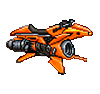
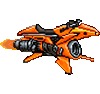
Add effects for OppressorMK2

Changed region(s): [[0.0, 0.1915, 1.0, 0.8085]]

diff --git a/Content/Mounts/OppressorMK2UI.cs b/Content/Mounts/OppressorMK2UI.cs
@@ -25,6 +25,19 @@ namespace LK_Ugrumiy_WP.Content.Mounts
                     },
                     InterfaceScaleType.Game));
             }
+
+            int cursorIndex = layers.FindIndex(layer => layer.Name.Equals("Vanilla: Cursor"));
+            if (cursorIndex != -1)
+            {
+                layers.Insert(cursorIndex, new LegacyGameInterfaceLayer(
+                    "LK_Ugrumiy_WP: Oppressor Dash Screen Effect",
+                    delegate
+                    {
+                        DrawDashScreenEffect(Main.spriteBatch);
+                        return true;
+                    },
+                    InterfaceScaleType.UI));
+            }
         }
 
         private void DrawDashCooldown(SpriteBatch spriteBatch)
@@ -71,6 +84,49 @@ namespace LK_Ugrumiy_WP.Content.Mounts
             if (filledWidth > 0)
             {
                 spriteBatch.Draw(pixel, new Rectangle(x, y, filledWidth, barHeight), filledColor);
+            }
+        }
+
+        private void DrawDashScreenEffect(SpriteBatch spriteBatch)
+        {
+            Player player = Main.LocalPlayer;
+            
+            if (!player.active || player.dead || player.mount.Type != ModContent.MountType<OppressorMK2>())
+                return;
+
+            OppressorMK2Player modPlayer = player.GetModPlayer<OppressorMK2Player>();
+
+            if (modPlayer.customDashTimer > 0)
+            {
+                // Прогресс от 1 до 0 (20 тиков = начальное значение таймера)
+                float progress = modPlayer.customDashTimer / 30f; 
+                
+                // Эффект мерцания на основе времени
+                float flicker = (float)System.Math.Abs(System.Math.Sin(Main.GlobalTimeWrappedHourly * 30f));
+                
+                // Цвет переливается между желтым и оранжевым
+                Color color = Color.Lerp(Color.Yellow, new Color(255, 100, 0), flicker);
+                
+                // Прозрачность затухает по мере окончания таймера (значительно уменьшено)
+                float alpha = progress * 0.12f; 
+                
+                Texture2D pixel = TextureAssets.MagicPixel.Value;
+                
+                // Легкий общий фон экрана
+                Rectangle screenRect = new Rectangle(0, 0, Main.screenWidth, Main.screenHeight);
+                spriteBatch.Draw(pixel, screenRect, color * alpha);
+                
+                // Более яркие края (эффект виньетки скорости) - размер и яркость уменьшены
+                int borderSize = (int)(50 * progress);
+                float borderAlpha = alpha * 1.5f;
+                
+                // Верхняя и нижняя границы
+                spriteBatch.Draw(pixel, new Rectangle(0, 0, Main.screenWidth, borderSize), color * borderAlpha);
+                spriteBatch.Draw(pixel, new Rectangle(0, Main.screenHeight - borderSize, Main.screenWidth, borderSize), color * borderAlpha);
+                
+                // Левая и правая границы
+                spriteBatch.Draw(pixel, new Rectangle(0, 0, borderSize, Main.screenHeight), color * borderAlpha);
+                spriteBatch.Draw(pixel, new Rectangle(Main.screenWidth - borderSize, 0, borderSize, Main.screenHeight), color * borderAlpha);
             }
         }
     }

diff --git a/Content/Items/Consumables/FatBurger/FatVisuals.cs b/Content/Items/Consumables/FatBurger/FatVisuals.cs
@@ -20,6 +20,9 @@ namespace LK_Ugrumiy_WP.Content.Items.Consumables
 			var fp = drawInfo.drawPlayer.GetModPlayer<FatPlayer>();
 			if (fp.FatLevel <= 5f) return;
 
+			// Не расширяем модельку, когда игрок на маунте — иначе растягивается спрайт маунта
+			// if (drawInfo.drawPlayer.mount.Active) return; // Убрано, чтобы игрок оставался толстым на маунте
+
 			float ratio = fp.FatLevel / FatPlayer.MaxFat;
 
 			float sx = 1f + ratio * 0.35f;
@@ -42,6 +45,8 @@ namespace LK_Ugrumiy_WP.Content.Items.Consumables
 
 		public override bool GetDefaultVisibility(PlayerDrawSet drawInfo)
 		{
+			// Скрываем fat-эффекты на маунте, чтобы не масштабировать спрайт маунта
+			// if (drawInfo.drawPlayer.mount.Active) return false; // Убрано, чтобы эффекты рисовались на маунте
 			return drawInfo.drawPlayer.GetModPlayer<FatPlayer>().FatLevel > 5f;
 		}
 
@@ -58,9 +63,53 @@ namespace LK_Ugrumiy_WP.Content.Items.Consumables
 			Vector2 feetCenter = drawInfo.Position - Main.screenPosition
 				+ new Vector2(drawInfo.drawPlayer.width / 2f, drawInfo.drawPlayer.height);
 
+			bool onMount = drawInfo.drawPlayer.mount.Active;
+			ModMount modMount = onMount ? MountLoader.GetMount(drawInfo.drawPlayer.mount.Type) : null;
+
 			for (int i = 0; i < drawInfo.DrawDataCache.Count; i++)
 			{
 				DrawData data = drawInfo.DrawDataCache[i];
+
+				if (onMount)
+				{
+					bool isMountTexture = false;
+					if (modMount != null)
+					{
+						if (data.texture == modMount.MountData.backTexture?.Value ||
+							data.texture == modMount.MountData.backTextureExtra?.Value ||
+							data.texture == modMount.MountData.backTextureGlow?.Value ||
+							data.texture == modMount.MountData.frontTexture?.Value ||
+							data.texture == modMount.MountData.frontTextureExtra?.Value ||
+							data.texture == modMount.MountData.frontTextureGlow?.Value)
+						{
+							isMountTexture = true;
+						}
+					}
+					else
+					{
+						if (data.texture != null && data.texture.Name != null && data.texture.Name.StartsWith("Images/Mount_"))
+						{
+							isMountTexture = true;
+						}
+					}
+
+					if (data.texture != null && data.texture.Name != null && data.texture.Name.Contains("OppressorMK2"))
+					{
+						isMountTexture = true;
+					}
+					
+					Texture2D boostTex = null;
+					try {
+						boostTex = ModContent.Request<Texture2D>("LK_Ugrumiy_WP/Content/Mounts/OppressorMK2Boost_Back").Value;
+					} catch {}
+
+					if (data.texture != null && boostTex != null && data.texture == boostTex)
+					{
+						isMountTexture = true;
+					}
+
+					if (isMountTexture) continue;
+				}
 
 				Vector2 offset = data.position - feetCenter;
 				offset.X *= sX;

diff --git a/Content/Mounts/OppressorMK2.cs b/Content/Mounts/OppressorMK2.cs
@@ -1,6 +1,8 @@
 using System;
+using System.Collections.Generic;
 using Microsoft.Xna.Framework;
 using Terraria;
+using Terraria.DataStructures;
 using Terraria.ID;
 using Terraria.ModLoader;
 using LK_Ugrumiy_WP.Content.Buffs;
@@ -110,21 +112,39 @@ namespace LK_Ugrumiy_WP.Content.Mounts
                 if (dashDirection != 0)
                 {
                     // Выполняем рывок
-                    player.velocity.X = 30f * dashDirection; 
+                    player.velocity.X = 45f * dashDirection; 
                     modPlayer.customDashDelay = 300; // Перезарядка (300 тиков = 5 секунд)
+                    modPlayer.customDashTimer = 30; // Время действия рывка (для анимации/эффектов)
                     
                     // Звуковой эффект
                     Terraria.Audio.SoundEngine.PlaySound(SoundID.Item82, player.Center); 
                     
                     // Визуальный эффект дыма/пыли
-                    for (int i = 0; i < 30; i++)
+                    for (int i = 0; i < 45; i++)
                     {
-                        int d = Dust.NewDust(player.position, player.width, player.height, DustID.Smoke, 0f, 0f, 100, default, 2f);
-                        Main.dust[d].velocity *= 3f;
+                        int d = Dust.NewDust(player.position, player.width, player.height, DustID.Smoke, 0f, 0f, 100, default, 2.5f);
+                        Main.dust[d].velocity *= 4.5f;
                         Main.dust[d].noGravity = true;
                     }
                 }
             }
+        }
+
+        public override bool Draw(List<Terraria.DataStructures.DrawData> playerDrawData, int drawType, Player drawPlayer, ref Microsoft.Xna.Framework.Graphics.Texture2D texture, ref Microsoft.Xna.Framework.Graphics.Texture2D glowTexture, ref Vector2 drawPosition, ref Rectangle frame, ref Color drawColor, ref Color glowColor, ref float rotation, ref Microsoft.Xna.Framework.Graphics.SpriteEffects spriteEffects, ref Vector2 drawOrigin, ref float drawScale, float shadow)
+        {
+            OppressorMK2Player modPlayer = drawPlayer.GetModPlayer<OppressorMK2Player>();
+            
+            // Если игрок в состоянии рывка
+            if (modPlayer.customDashTimer > 0)
+            {
+                // drawType == 0 — это backTexture маунта
+                if (drawType == 0)
+                {
+                    texture = ModContent.Request<Microsoft.Xna.Framework.Graphics.Texture2D>("LK_Ugrumiy_WP/Content/Mounts/OppressorMK2Boost_Back").Value;
+                }
+            }
+
+            return true;
         }
     }
 }

diff --git a/Content/Items/Consumables/FatBurger/FatPlayer.cs b/Content/Items/Consumables/FatBurger/FatPlayer.cs
@@ -102,34 +102,38 @@ namespace LK_Ugrumiy_WP.Content.Items.Consumables
 			// Базовое сжигание: всегда тикает (очень медленно)
 			burnRate += 0.001f; // ~0.06/сек, ~3.6/мин
 
-			// Бег: быстро сжигает
-			if (Math.Abs(Player.velocity.X) > 2f && Player.velocity.Y == 0f)
+			// На маунте жир не сжигается активно — игрок не бегает сам
+			if (!Player.mount.Active)
 			{
-				burnRate += 0.015f; // ~0.48/сек, ~28.8/мин
-			}
+				// Бег: быстро сжигает
+				if (Math.Abs(Player.velocity.X) > 2f && Player.velocity.Y == 0f)
+				{
+					burnRate += 0.015f; // ~0.48/сек, ~28.8/мин
+				}
 
-			// Спринт (быстрый бег)
-			if (Math.Abs(Player.velocity.X) > 5f)
-			{
-				burnRate += 0.012f; // ещё быстрее
-			}
+				// Спринт (быстрый бег)
+				if (Math.Abs(Player.velocity.X) > 5f)
+				{
+					burnRate += 0.012f; // ещё быстрее
+				}
 
-			// Прыжки
-			if (Player.jump > 0 || Player.velocity.Y < -2f)
-			{
-				burnRate += 0.005f;
-			}
+				// Прыжки
+				if (Player.jump > 0 || Player.velocity.Y < -2f)
+				{
+					burnRate += 0.005f;
+				}
 
-			// Бой (если игрок атакует)
-			if (Player.itemAnimation > 0)
-			{
-				burnRate += 0.004f;
-			}
+				// Бой (если игрок атакует)
+				if (Player.itemAnimation > 0)
+				{
+					burnRate += 0.004f;
+				}
 
-			// Плавание
-			if (Player.wet && !Player.lavaWet)
-			{
-				burnRate += 0.01f;
+				// Плавание
+				if (Player.wet && !Player.lavaWet)
+				{
+					burnRate += 0.01f;
+				}
 			}
 
 			// Накапливаем и применяем

diff --git a/test.cs b/test.cs
@@ -1,0 +1,20 @@
+using System;
+using System.Reflection;
+using Terraria;
+
+class Program {
+    static void Main() {
+        var type = typeof(Mount);
+        foreach (var f in type.GetFields(BindingFlags.Public | BindingFlags.NonPublic | BindingFlags.Static | BindingFlags.Instance)) {
+            Console.WriteLine("Field: " + f.FieldType.Name + " " + f.Name);
+        }
+        foreach (var p in type.GetProperties(BindingFlags.Public | BindingFlags.NonPublic | BindingFlags.Static | BindingFlags.Instance)) {
+            Console.WriteLine("Prop: " + p.PropertyType.Name + " " + p.Name);
+        }
+        Console.WriteLine("--- MountData ---");
+        var mtype = typeof(Mount.MountData);
+        foreach (var f in mtype.GetFields(BindingFlags.Public | BindingFlags.NonPublic | BindingFlags.Static | BindingFlags.Instance)) {
+            Console.WriteLine("Field: " + f.FieldType.Name + " " + f.Name);
+        }
+    }
+}

diff --git a/Content/Mounts/OppressorMK2Player.cs b/Content/Mounts/OppressorMK2Player.cs
@@ -7,6 +7,9 @@ namespace LK_Ugrumiy_WP.Content.Mounts
     {
         // Кастомный таймер для перезарядки рывка Апрессора
         public int customDashDelay = 0;
+        
+        // Таймер активности самого рывка (для анимации и эффектов)
+        public int customDashTimer = 0;
 
         public override void PreUpdateMovement()
         {
@@ -14,6 +17,10 @@ namespace LK_Ugrumiy_WP.Content.Mounts
             if (customDashDelay > 0)
             {
                 customDashDelay--;
+            }
+            if (customDashTimer > 0)
+            {
+                customDashTimer--;
             }
         }
     }
